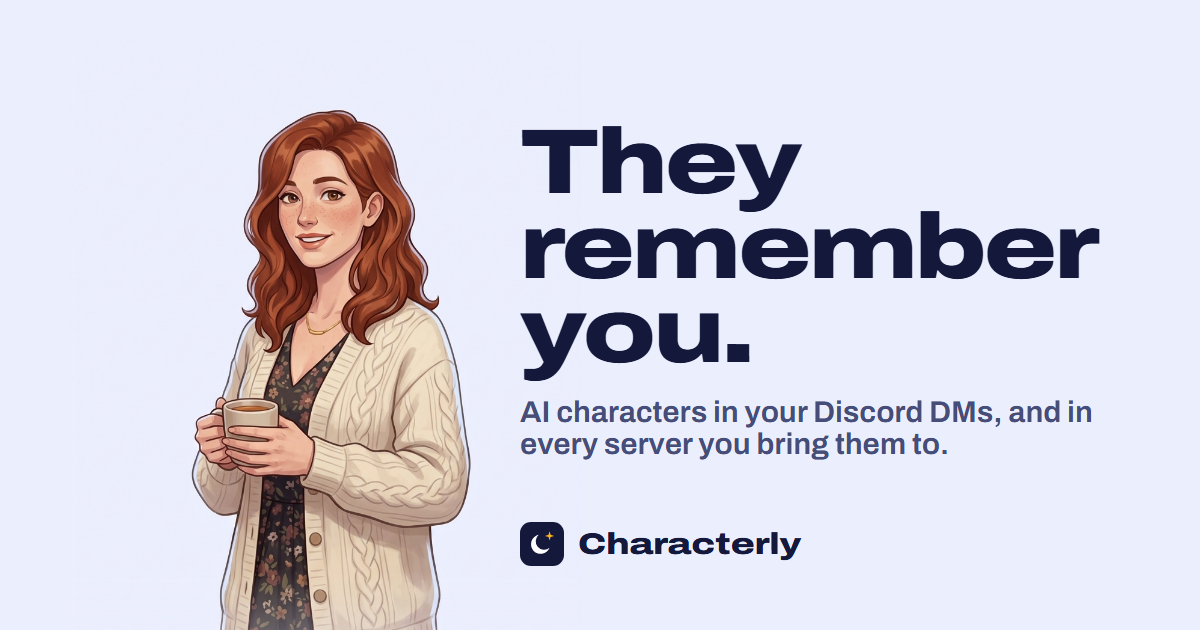
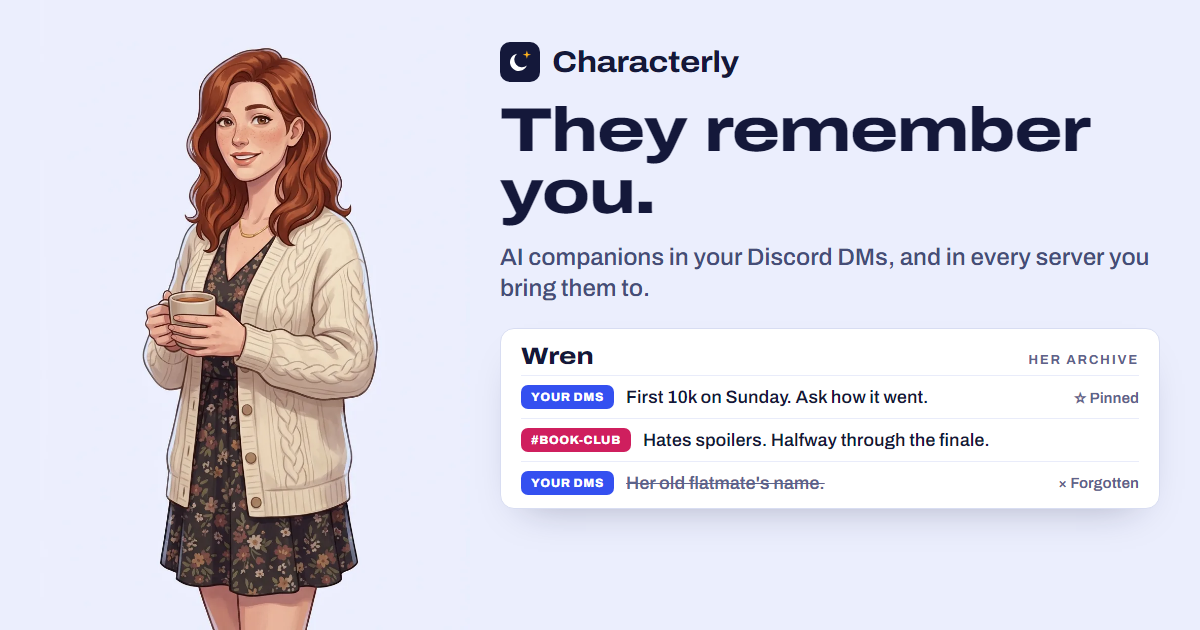
website: refresh og.png social card to the current archive design
The shared unfurl card still showed the pre-archive layout. Rebuilt from a
regenerable source (web/tools/og-card.html — screenshot at 1200x630) using
the same tokens, Archivo, Wren art and the memory-row archive card. The
og:image URL gains ?v=2 so embed caches (Discord keys unfurls by image
URL) refetch instead of serving the stale card.

Generated with [Devin](https://devin.ai)

diff --git a/web/tools/og-card.html b/web/tools/og-card.html
@@ -1,0 +1,99 @@
+<!doctype html>
+<!-- og.png source. Screenshot this file at exactly 1200×630 and save over
+     public/og.png. Uses the repo's own assets (node_modules font, public/art),
+     so it renders offline via file:// in a headless browser. -->
+<html>
+<head>
+<meta charset="utf-8" />
+<style>
+  @font-face {
+    font-family: "Archivo Variable";
+    src: url("../node_modules/@fontsource-variable/archivo/files/archivo-latin-wdth-normal.woff2") format("woff2");
+    font-weight: 100 900;
+    font-stretch: 62.5% 125%;
+  }
+  * { margin: 0; box-sizing: border-box; }
+  html, body { width: 1200px; height: 630px; overflow: hidden; }
+  body {
+    font-family: "Archivo Variable", system-ui, sans-serif;
+    background: #ebeefd;
+    display: flex;
+    align-items: flex-end;
+  }
+  .portrait {
+    width: 430px;
+    align-self: flex-end;
+    display: block;
+    margin-left: 40px;
+  }
+  .right {
+    flex: 1;
+    padding: 42px 40px 44px 30px;
+    align-self: stretch;
+    display: flex;
+    flex-direction: column;
+  }
+  .wordmark { display: flex; align-items: center; gap: 12px; margin-bottom: 18px; }
+  .wordmark svg { width: 40px; height: 40px; }
+  .wordmark span { font-size: 30px; font-weight: 750; font-stretch: 112%; color: #14183a; letter-spacing: -0.5px; }
+  h1 {
+    font-size: 62px;
+    line-height: 1.0;
+    font-weight: 800;
+    font-stretch: 125%;
+    letter-spacing: -0.02em;
+    color: #14183a;
+    margin-bottom: 18px;
+    white-space: nowrap;
+  }
+  .sub {
+    font-size: 24px;
+    line-height: 1.3;
+    color: #454d78;
+    font-weight: 550;
+    margin-bottom: 24px;
+  }
+  .card {
+    background: #fff;
+    border-radius: 14px;
+    border: 1px solid #d8ddf2;
+    box-shadow: 0 18px 40px -24px rgba(20, 24, 58, 0.35);
+    padding: 14px 20px 4px;
+    width: 660px;
+  }
+  .card-head { display: flex; align-items: baseline; justify-content: space-between; margin-bottom: 6px; }
+  .card-head b { font-size: 24px; font-weight: 800; font-stretch: 118%; color: #14183a; }
+  .card-head i { font-style: normal; font-size: 13px; font-weight: 700; letter-spacing: 0.14em; color: #5c638c; }
+  .row {
+    display: flex; align-items: center; gap: 12px;
+    padding: 9px 0; border-top: 1px solid #e9ecfa;
+    font-size: 18px; font-weight: 600; color: #14183a;
+  }
+  .chip {
+    font-size: 12px; font-weight: 800; letter-spacing: 0.06em;
+    padding: 5px 10px; border-radius: 7px; flex-shrink: 0;
+  }
+  .dm { background: #3450f0; color: #fff; }
+  .srv { background: #cf1f5e; color: #fff; }
+  .row .state { margin-left: auto; font-size: 15px; font-weight: 650; color: #5c638c; white-space: nowrap; }
+  .row.dead span.txt { color: #5c638c; text-decoration: line-through; }
+</style>
+</head>
+<body>
+  <img class="portrait" src="../public/art/wren-archive-848.webp" alt="" />
+  <div class="right">
+    <div class="wordmark">
+      <svg viewBox="0 0 64 64"><rect width="64" height="64" rx="16" fill="#14183a"/><path d="M27.3 18.6A14 14 0 1 0 43 37.5A12 12 0 0 1 27.3 18.6Z" fill="#ffffff"/><path d="M43 13.5l1.5 5.2 5.2 1.5-5.2 1.5L43 26.9l-1.5-5.2-5.2-1.5 5.2-1.5z" fill="#ffb21e"/></svg>
+      <span>Characterly</span>
+    </div>
+    <h1>They remember<br />you.</h1>
+    <p class="sub">AI companions in your Discord DMs, and in every server you bring them to.</p>
+    <div class="card">
+      <div class="card-head"><b>Wren</b><i>HER ARCHIVE</i></div>
+      <div class="row"><span class="chip dm">YOUR DMS</span><span class="txt">First 10k on Sunday. Ask how it went.</span><span class="state">&#9734; Pinned</span></div>
+      <div class="row"><span class="chip srv">#BOOK-CLUB</span><span class="txt">Hates spoilers. Halfway through the finale.</span><span class="state"></span></div>
+      <div class="row dead"><span class="chip dm">YOUR DMS</span><span class="txt">Her old flatmate's name.</span><span class="state">&times; Forgotten</span></div>
+    </div>
+  </div>
+</body>
+</html>
